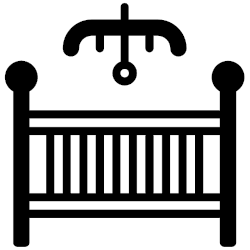
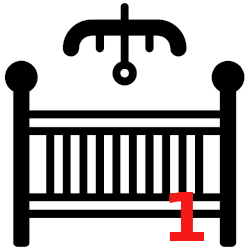
Small upgrade to host new radio station and lulaby

Changed region(s): [[0.672, 0.756, 0.84, 0.98]]

diff --git a/templates/index.html b/templates/index.html
@@ -22,23 +22,27 @@
                 </div>
                 <div class="app_state">
                     <p class="volume_line"></p>
+                </div>                
+                <div class="app_row">
+                    <div class="app" id="lulabyON" onclick="golink(this,'/api/lulaby/start/2',updateVolume)"></div>
+                    <div class="app" id="lulabyTwo" onclick="golink(this,'/api/lulaby/start/1',updateVolume)"></div>
                 </div>
                 <div class="app_row">
-                    <div class="app" id="radioON" onclick="golink(this,'/api/radio/start')"></div>
+                    <div class="app" id="radioON" onclick="golink(this,'/api/radio/start/ns',updateVolume)"></div>
+                    <div class="app" id="radio357" onclick="golink(this,'/api/radio/start/357',updateVolume)"></div>
+                </div>
+                <div class="app_row">
                     <div class="app" id="soundOFF" onclick="golink(this,'/api/music/stop')"></div>
-                </div>
-                <div class="app_row">
-                    <div class="app" id="clockON" onclick="golink(this,'/api/clock/start')"></div>
-                    <div class="app" id="clockOFF" onclick="golink(this,'/api/clock/stop')"></div>
                 </div>
                 <div class="app_row">
                     <div class="app" id="volumeUP" onclick="golink(this,'/api/volume/up');updateVolume()"></div>
                     <div class="app" id="volumeDOWN" onclick="golink(this,'/api/volume/down');updateVolume()"></div>
                 </div>
                 <div class="app_row">
-                    <div class="app" id="lulabyON" onclick="golink(this,'/api/lulaby/start');updateVolume()"></div>
-                    <div class="app" id="soundOFF" onclick="golink(this,'/api/music/stop')"></div>
-                </div>
+                    <div class="app" id="clockON" onclick="golink(this,'/api/clock/start')"></div>
+                    <div class="app" id="clockOFF" onclick="golink(this,'/api/clock/stop')"></div>
+                </div>  
+               
             </div>
         </div>
         

diff --git a/static/main.js b/static/main.js
@@ -7,9 +7,15 @@ window.onload = () => {
     }
   }
 
-var golink = function(divObj, apipath) {
+var golink = function(divObj, apipath, afterFunction) {
     $(divObj).addClass("choosen");
-    $.ajax(apipath);
+    $.ajax(apipath).done(
+        function(data) {
+            if (afterFunction!==undefined) {
+                eval(afterFunction)
+            }
+        }
+    );
     setTimeout(function(){
         $(divObj).removeClass("choosen");
     },1000);               

diff --git a/static/style.css b/static/style.css
@@ -24,6 +24,10 @@ div#radioON {
     background-image: url('/static/radio.png');
 }
 
+div#radio357 {
+    background-image: url('/static/radio357.png');
+}
+
 div#soundOFF {
     background-image: url('/static/musicoff.png');
 }
@@ -46,6 +50,10 @@ div#volumeDOWN {
 
 div#lulabyON {
     background-image: url('/static/lulaby.png');
+}
+
+div#lulabyTwo {
+    background-image: url('/static/lulaby2.png');
 }
 
 div.choosen {

diff --git a/modules/radio.py b/modules/radio.py
@@ -1,8 +1,13 @@
 from modules.stoppableThread import StoppableThread,ExeContext
 import subprocess
 
-def playRadio():
-    command = "/opt/radioclock/radio.sh" #command to be executed
+def playRadio(id):
+    command = "amixer -c 1 set Speaker 55%;"
+    if id == 'ns':
+        command += "mplayer -cache 1024 -nolirc http://stream.rcs.revma.com/ypqt40u0x1zuv"
+    elif id == '357':
+        command += "mplayer -cache 1024 -nolirc http://stream.rcs.revma.com/an1ugyygzk8uv"
+    print("Trying to run"+command)
     try:
         res = subprocess.call(command, shell = True,stdout=subprocess.DEVNULL, stderr=subprocess.DEVNULL)
     except subprocess.CalledProcessError as e:
@@ -16,8 +21,12 @@ def killMusic():
     except subprocess.CalledProcessError as e:
         print("Unable to stop playing")
     return
-def playLulaby():
-    command = "amixer -c 1 set Speaker 70%; mplayer /opt/music/ajde-jano.webm"
+def playLulaby(id):
+    command = "amixer -c 1 set Speaker 90%;"
+    if id == '1':
+        command += "mplayer /opt/music/ajde-jano.webm"
+    elif id == '2':
+        command += "mplayer /opt/music/ta-dorotka.webm"
     try:
         res = subprocess.call(command, shell = True,stdout=subprocess.DEVNULL, stderr=subprocess.DEVNULL)
     except subprocess.CalledProcessError as e:

diff --git a/radioserver.py b/radioserver.py
@@ -99,8 +99,8 @@ def clockStop():
     if ExeContext.displayThread is not None:
         ExeContext.displayThread.stop()
     return statusAnswer("Clock stopped")
-@app.route('/api/radio/start')
-def radioStart():
+@app.route('/api/radio/start/<radio_id>')
+def radioStart(radio_id):
     """Start playing radio
     ---
     responses:
@@ -114,7 +114,7 @@ def radioStart():
                 description: Status answer.
     """
     killMusic()
-    radio = threading.Thread(target=playRadio, args=())
+    radio = threading.Thread(target=playRadio, args=(radio_id,))
     radio.start()
     return statusAnswer("Radio started")
 @app.route('/api/music/stop')
@@ -133,8 +133,8 @@ def radioStop():
     """
     killMusic()
     return statusAnswer("Music stopped")
-@app.route('/api/lulaby/start')
-def lulabyStart():
+@app.route('/api/lulaby/start/<lul_id>')
+def lulabyStart(lul_id):
     """Start playing lulaby
     ---
     responses:
@@ -148,7 +148,7 @@ def lulabyStart():
                 description: Status answer.
     """
     killMusic()
-    radio = threading.Thread(target=playLulaby, args=())
+    radio = threading.Thread(target=playLulaby, args=(lul_id,))
     radio.start()
     return statusAnswer("Lulaby playing")
 @app.route('/api/volume/down')
